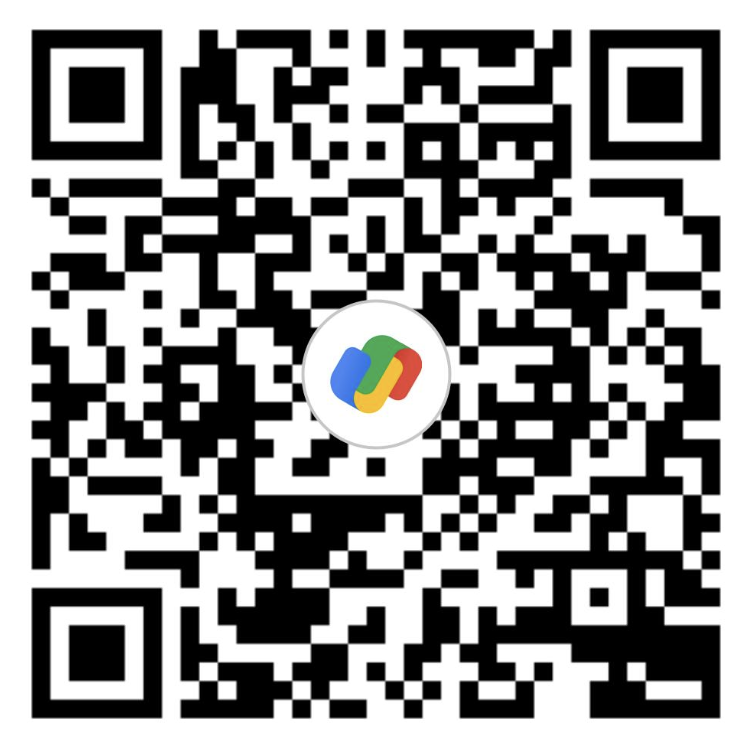
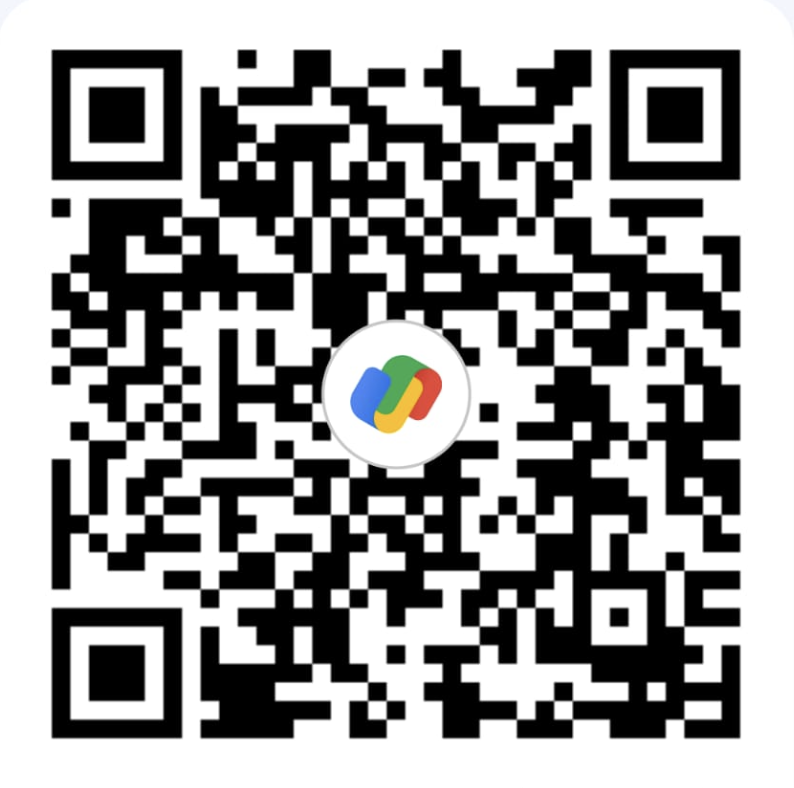
change QR

diff --git a/app/checkout/page.tsx b/app/checkout/page.tsx
@@ -90,7 +90,7 @@ export default function CheckoutPage() {
   const reservedRef = useRef(false);
   const redirectingRef = useRef(false);
 
-  const upiId = 'sujithsaravanan2004@okaxis';
+  const upiId = 'nightmareplayz15@okicici';
   const isAllPreOrder = !balancePaymentItem && cart.length > 0 && cart.every(item => isPreOrderItem(item));
   const hasInStockItems = !balancePaymentItem && cart.some(item => !isPreOrderItem(item));
   const effectiveShippingCharges = isAllPreOrder ? 0 : (appliedCoupon?.shippingWaived ? 0 : shippingCharges);

diff --git a/app/pay/[preOrderId]/page.tsx b/app/pay/[preOrderId]/page.tsx
@@ -49,7 +49,7 @@ export default function BalancePaymentPage() {
     pincode: '',
   });
 
-  const upiId = 'sujithsaravanan2004@okaxis';
+  const upiId = 'nightmareplayz15@okicici';
 
   const handleCopyUpi = () => {
     navigator.clipboard.writeText(upiId);
